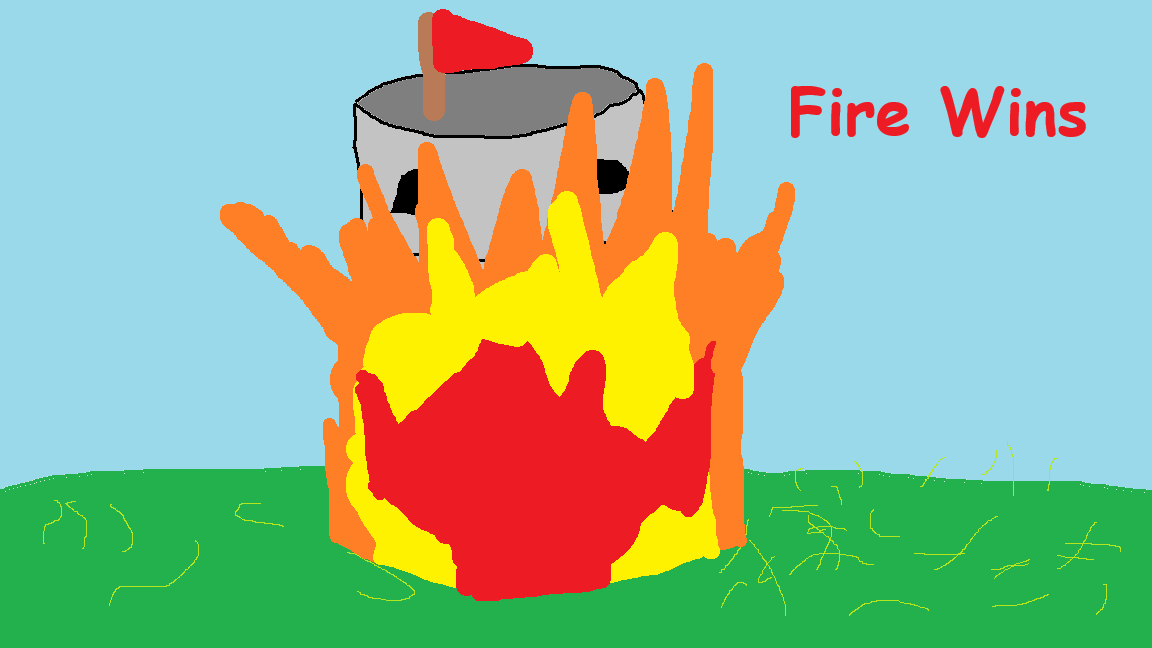
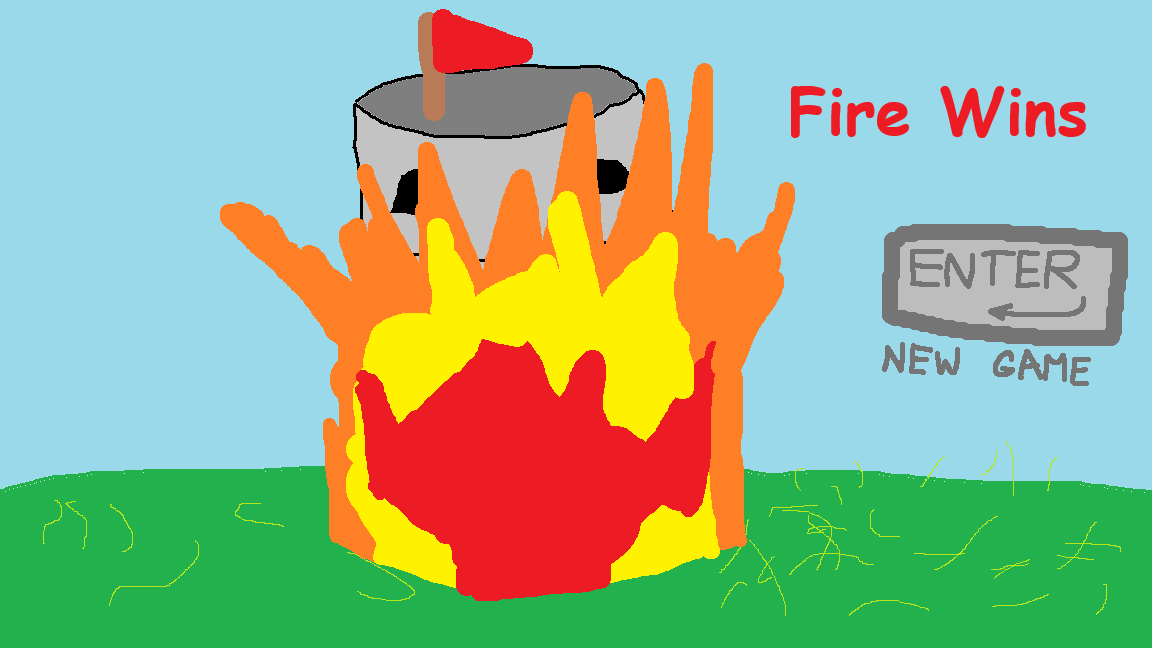
Game can now be restarted at the end of each set.

Changed region(s): [[0.75, 0.3395, 1.0, 0.5864]]

diff --git a/Platformer/Platformer.java b/Platformer/Platformer.java
@@ -246,6 +246,9 @@ public class Platformer implements Runnable, KeyListener {
     /** True when the right arrow key is held, false otherwise. */
     private static boolean right = false;
 
+    /** True when the enter key is held, false otherwise. */
+    private static boolean enter = false;
+
     /** True if player 1's left or right sides are touching a wall, false otherwise. */
     private static boolean player1CollisionX = false;
 
@@ -807,7 +810,7 @@ public class Platformer implements Runnable, KeyListener {
             right = true;
         }
         if (e.getKeyCode() == KeyEvent.VK_ENTER) {
-            resetGame();
+            enter = true;
         }
     }
 
@@ -840,6 +843,9 @@ public class Platformer implements Runnable, KeyListener {
         }
         if (e.getKeyCode() == KeyEvent.VK_RIGHT) {
             right = false;
+        }
+        if (e.getKeyCode() == KeyEvent.VK_ENTER) {
+            enter = false;
         }
     }
 
@@ -1189,17 +1195,26 @@ public class Platformer implements Runnable, KeyListener {
         Timer clock = new Timer(1000 / FPS, new ActionListener() {
             @Override
             public void actionPerformed(ActionEvent e) {
-
                 // ScoreBoard
                 if (!gameState.equals("RACING")) {
                     if (screenTimer > 0) {
                         screenTimer--;
                         frame1.repaint();
                         frame2.repaint();
-                    } else if (screenTimer == 0 && !gameState.equals("GAME_OVER")) {
+                    } else if (screenTimer <= 0 && !gameState.equals("GAME_OVER")) {
                         loadRandomMap();
                         setLayout();
                         resetPlayers();
+                        gameState = "RACING";
+                        playSound("Platformer/Sound/Start.wav");
+                        frame1.repaint();
+                        frame2.repaint();
+                    } else if (screenTimer <= 0 && gameState.equals("GAME_OVER") && enter) {
+                        iceWins = 0;
+                        fireWins = 0;
+                        loadRandomMap();
+                        setLayout();
+                        resetGame();
                         gameState = "RACING";
                         playSound("Platformer/Sound/Start.wav");
                         frame1.repaint();
